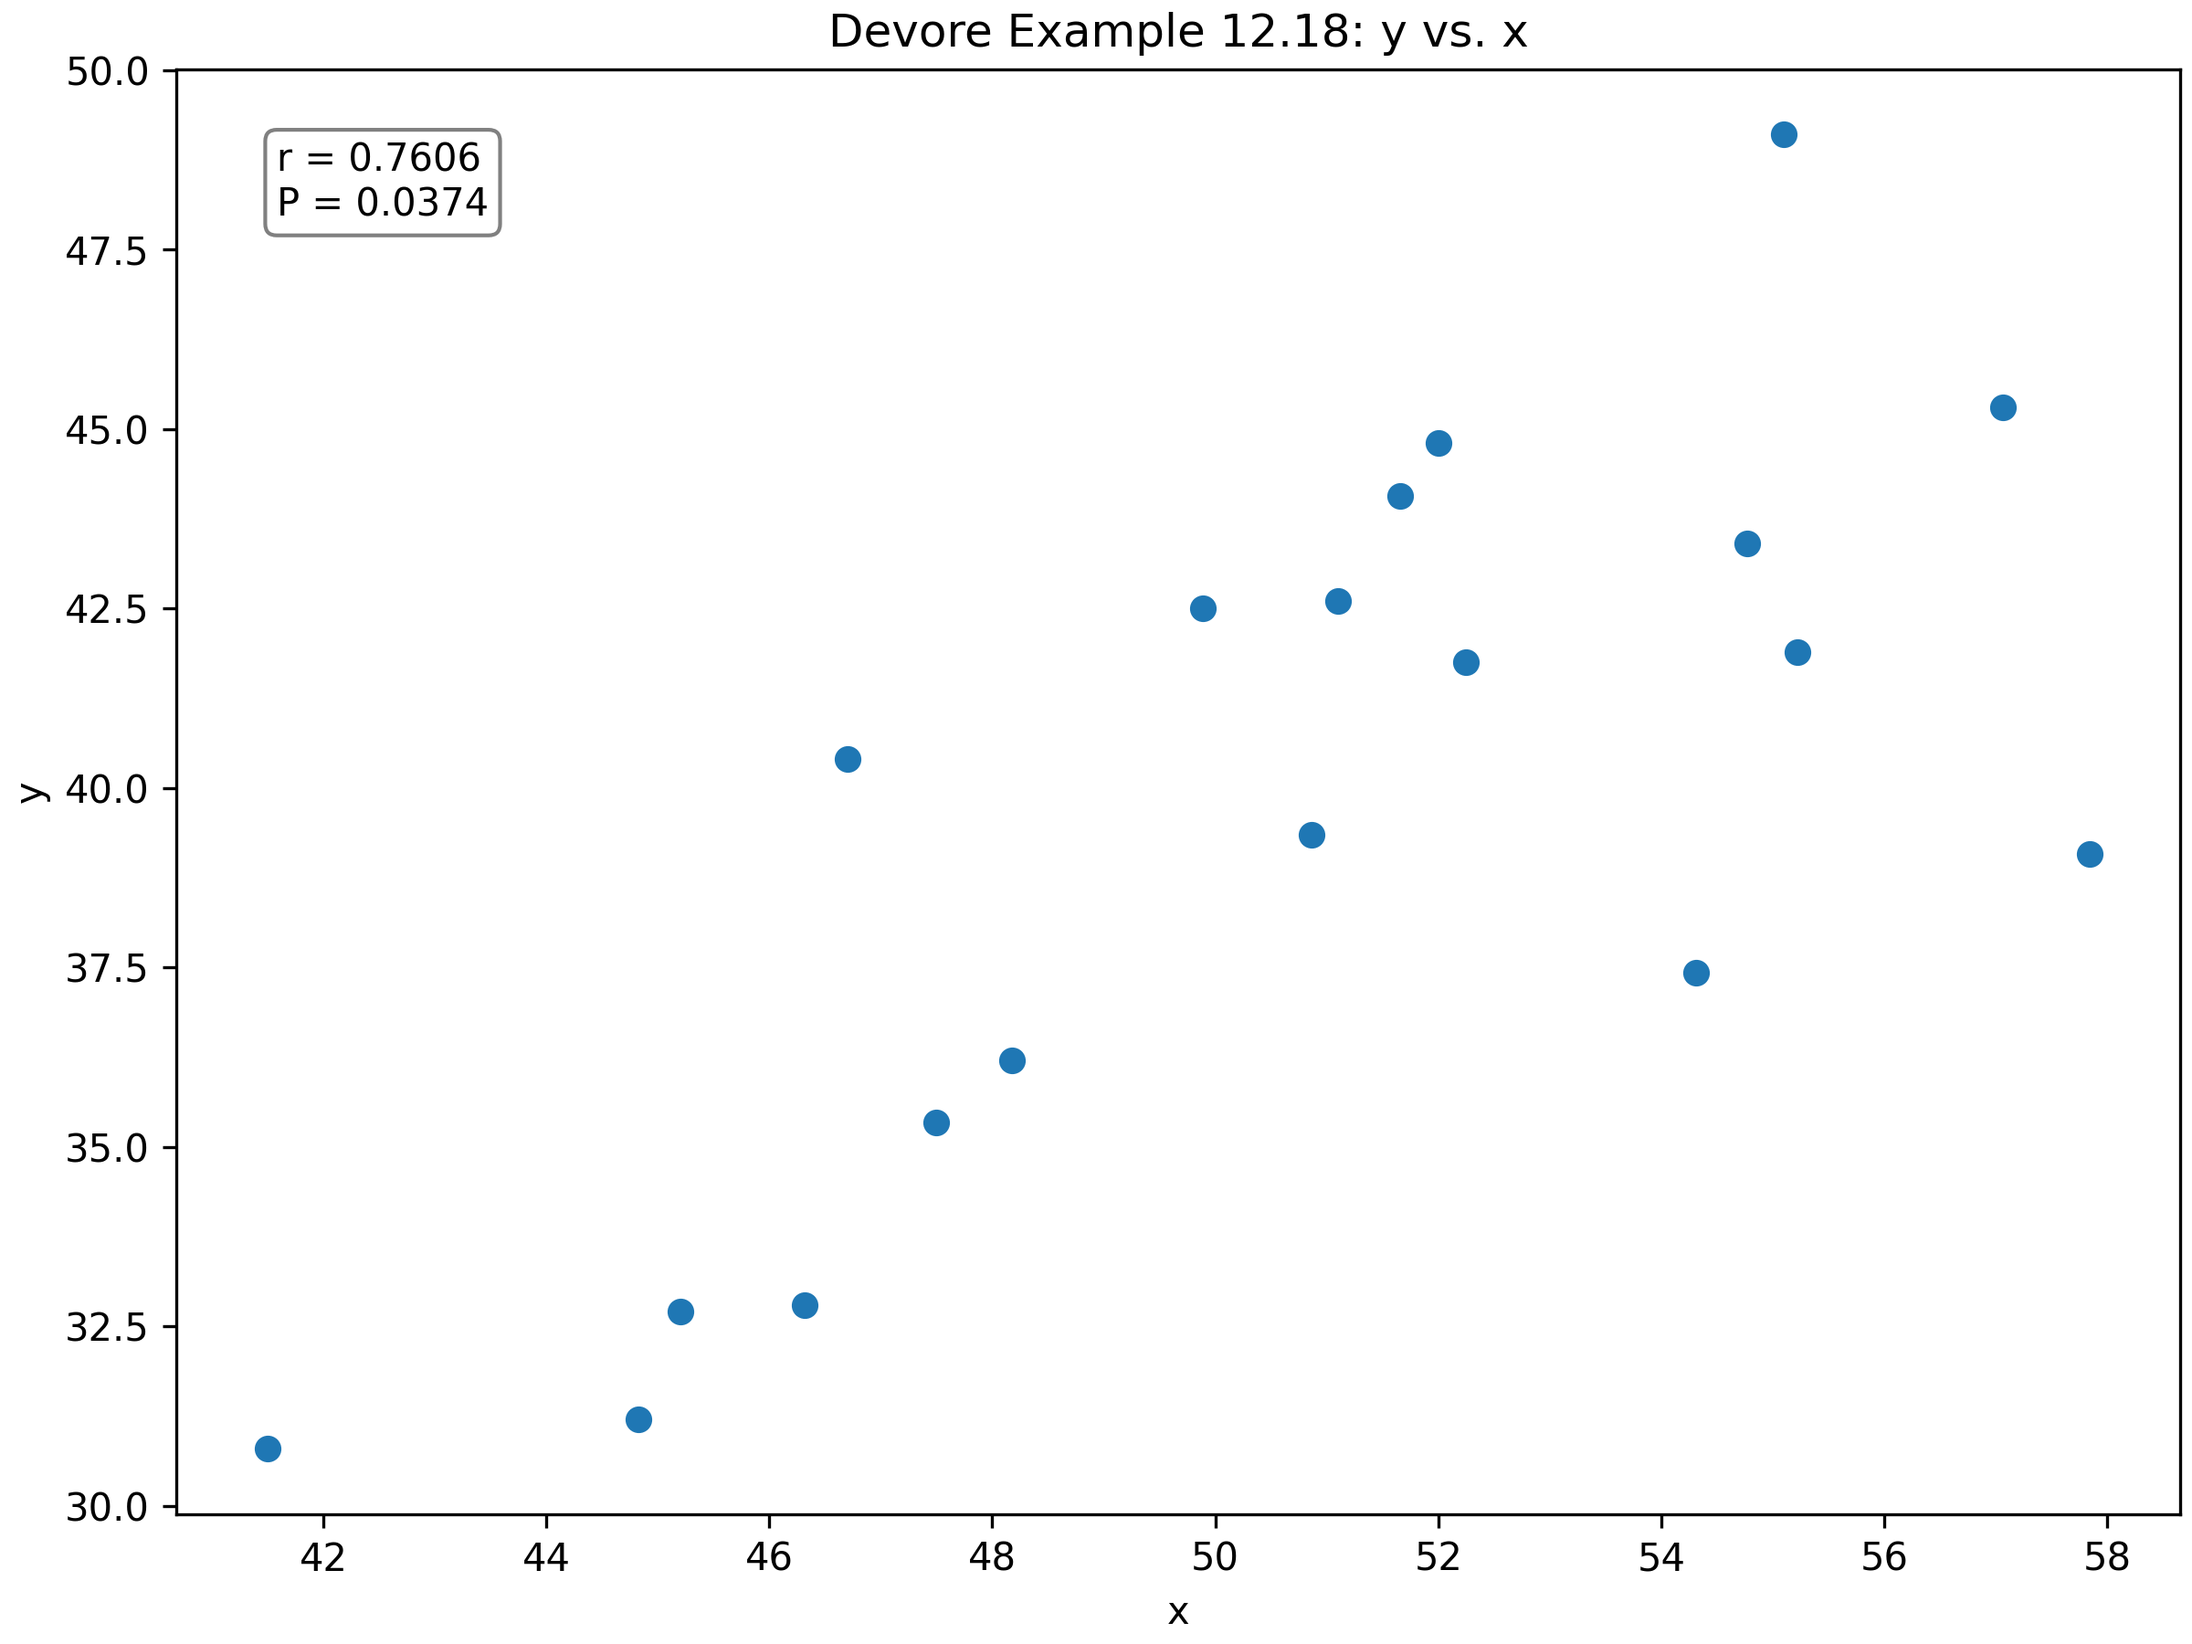
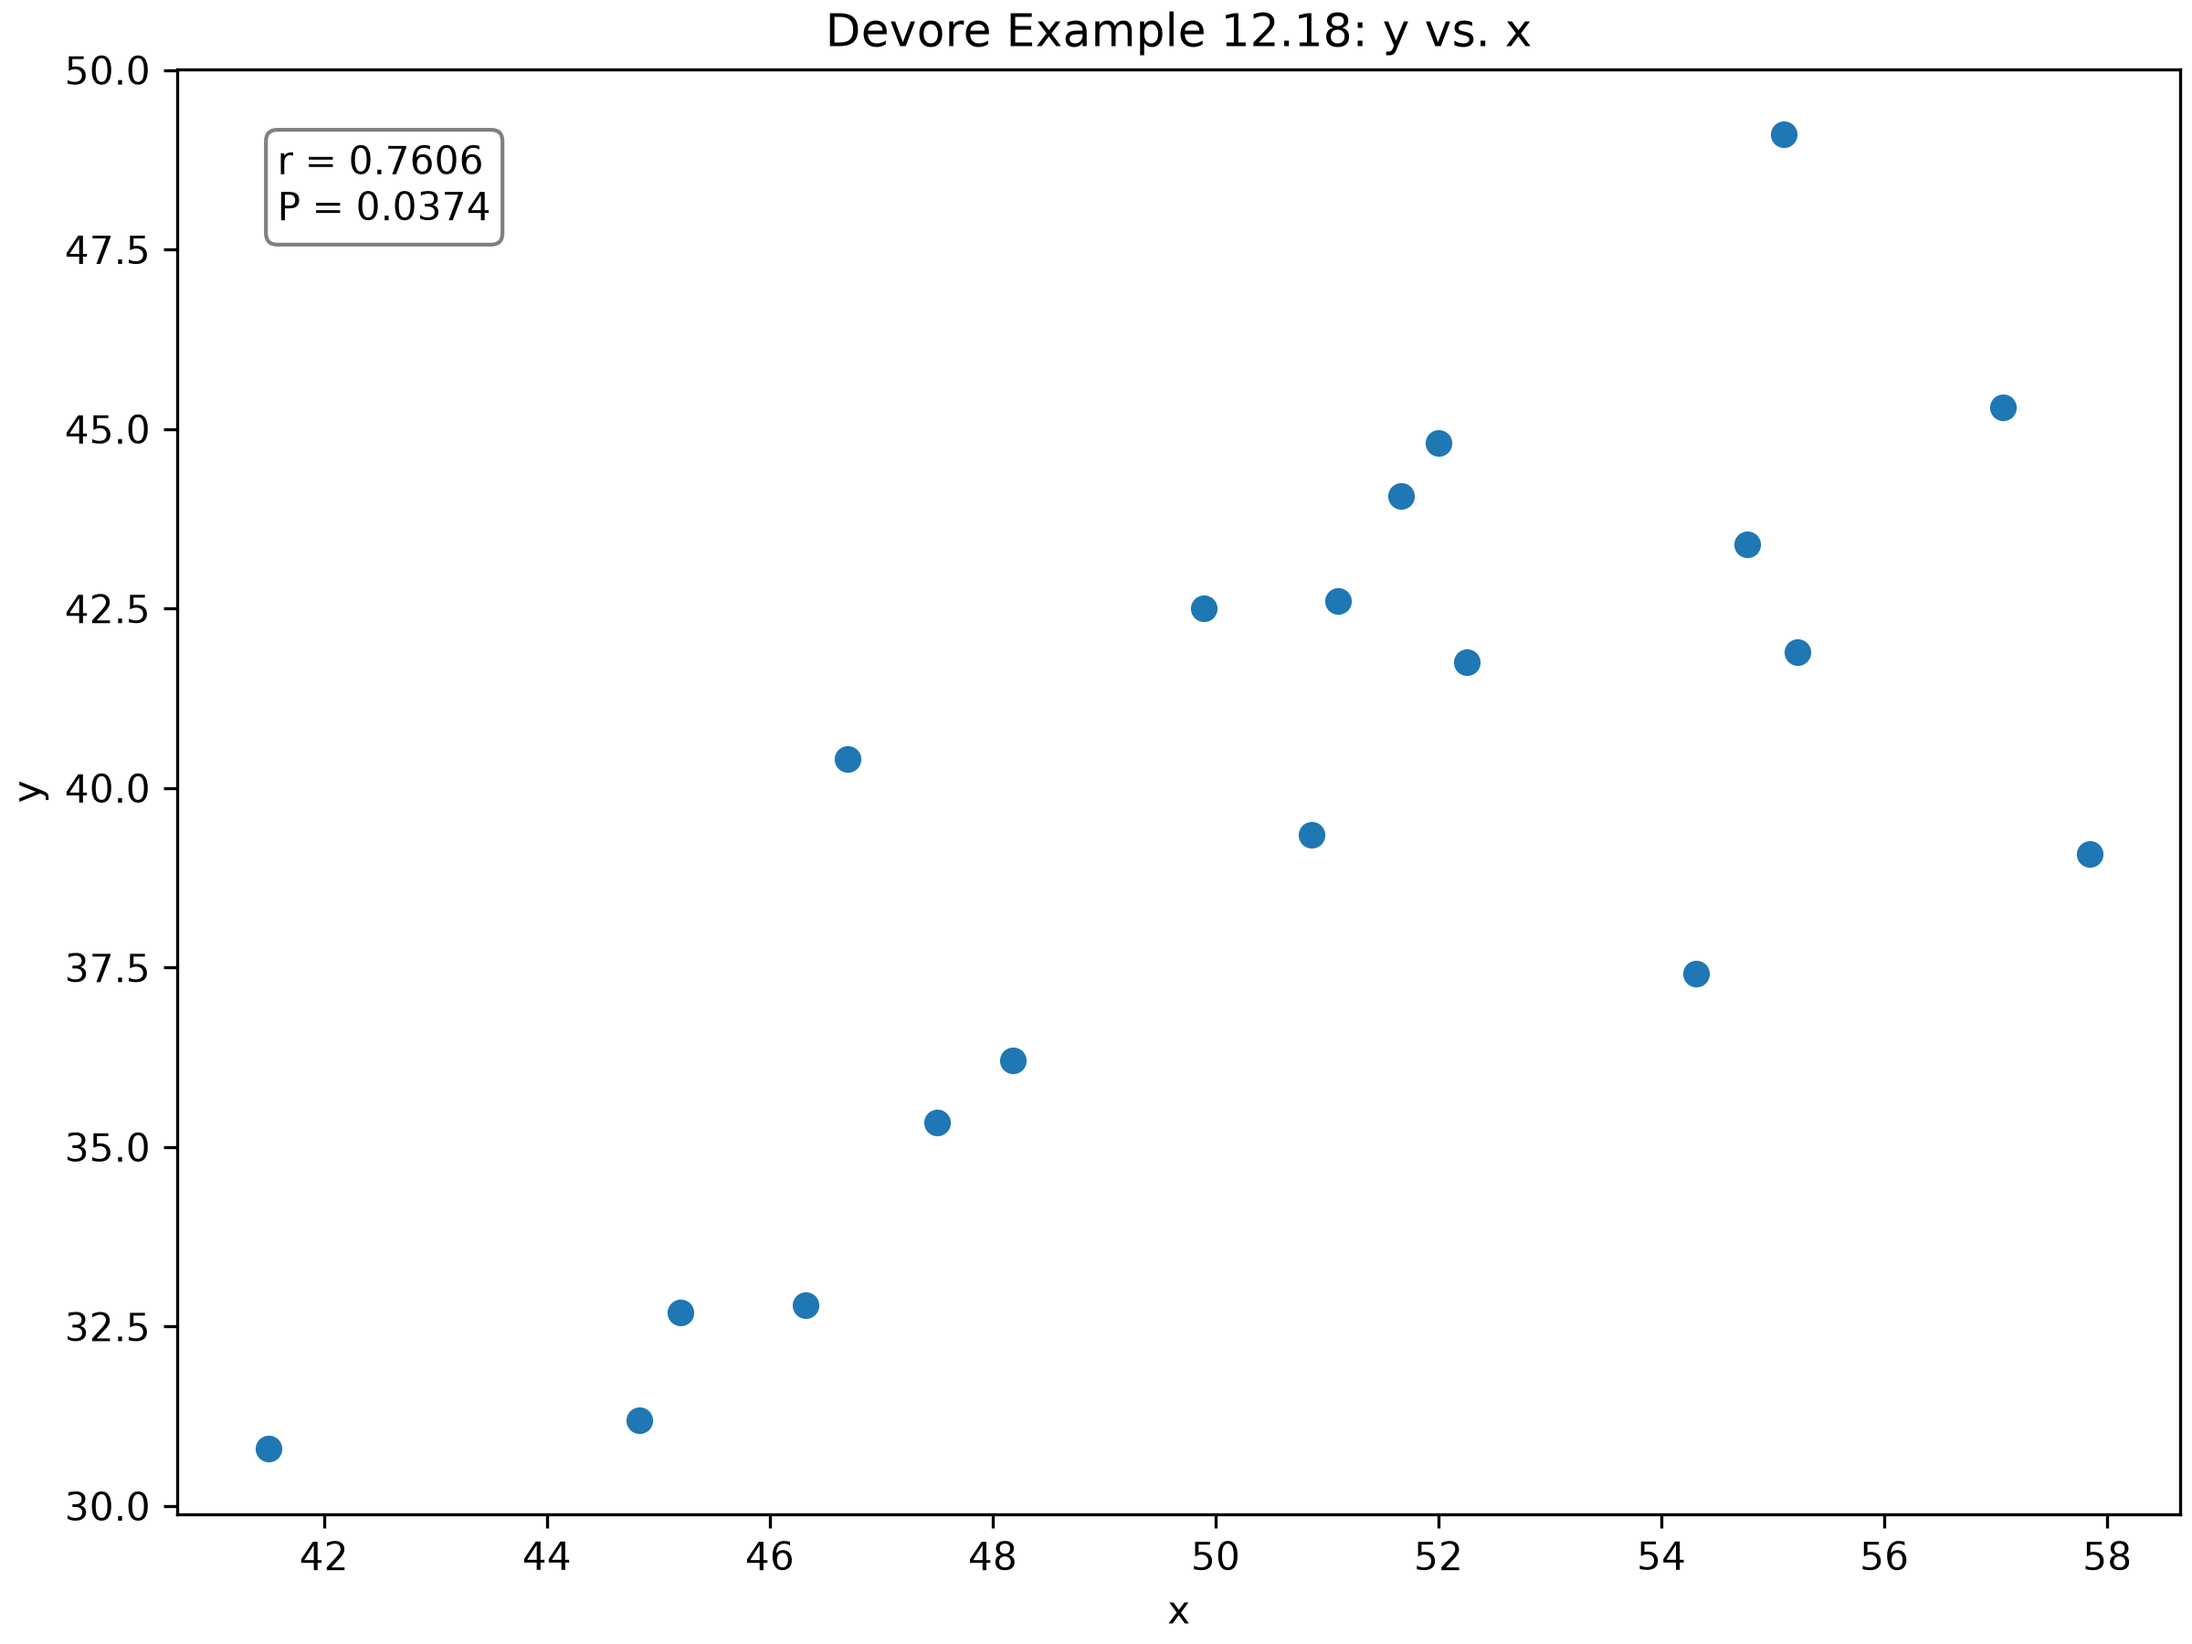
hw6 final

diff --git a/HW6/HW6_2.py b/HW6/HW6_2.py
@@ -5,8 +5,6 @@ import matplotlib.pyplot as plt
 x = np.array([55.10, 44.83, 46.32, 51.10, 49.89, 45.20, 48.18, 46.70, 54.31, 41.50, 47.50, 52.00, 52.25, 50.86, 51.66, 54.77, 57.06, 57.84, 55.22])
 y = np.array([49.10, 31.20, 32.80, 42.60, 42.50, 32.70, 36.21, 40.40, 37.42, 30.80, 35.34, 44.80, 41.75, 39.35, 44.07, 43.40, 45.30, 39.08, 41.89])
 
-RHO_0 = 0.5  # null hypothesis H0: rho = 0.5, alternative Ha: rho > 0.5
-
 def get_sxx(x: np.array) -> float:
     return (x**2).sum() - (x.sum())**2 / x.shape[0]
 
@@ -18,6 +16,12 @@ def get_syy(y: np.array) -> float:
 
 def get_r(sxy: float, sxx: float, syy: float) -> float:
     return sxy / np.sqrt(sxx * syy)
+
+def get_cov(x: np.array, y: np.array) -> float:
+    return ((x - x.mean()) * (y - y.mean())).sum() / (x.shape[0] - 1)
+
+def get_rho(x: np.array, y: np.array) -> float:
+    return get_cov(x, y) / (x.std(ddof=1) * y.std(ddof=1))
 
 def get_v(r: float) -> float:
     # Fisher transformation of r
@@ -51,13 +55,15 @@ def main() -> None:
     syy = get_syy(y)
     sxy = get_sxy(x, y)
     r   = get_r(sxy, sxx, syy)
+    rho = get_rho(x, y)
     v   = get_v(r)
-    z   = get_z(v, RHO_0, n)
+    z   = get_z(v, 0.5, n)  # H0: rho = 0.5, Ha: rho > 0.5
     P   = get_P(z, "upper")
     print(f'Sxx = {sxx:.4f}')
     print(f'Syy = {syy:.4f}')
     print(f'Sxy = {sxy:.4f}')
     print(f'r   = {r:.4f}')
+    print(f'rho = {rho:.4f}')
     print(f'v   = {v:.4f}')
     print(f'z   = {z:.4f}')
     print(f'P   = {P:.4f}')
